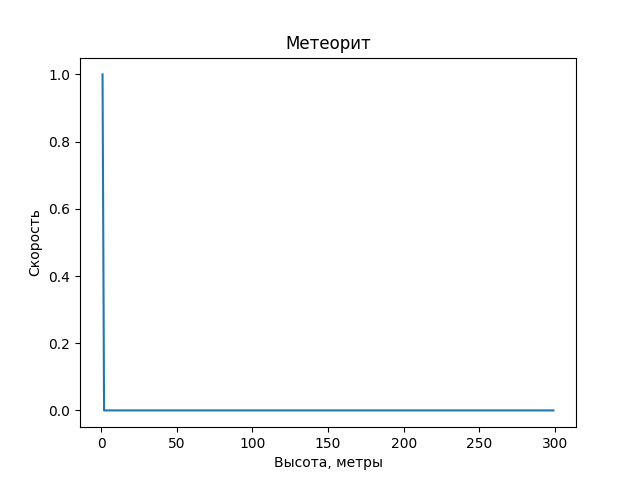
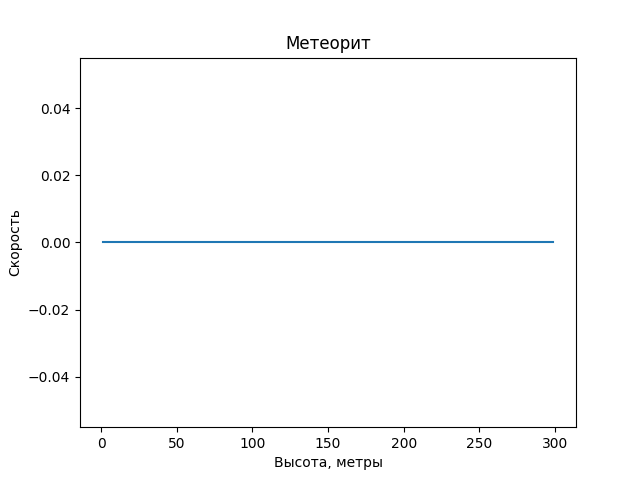
05

diff --git a/9 лекция/d_1.py b/9 лекция/d_1.py
@@ -8,7 +8,7 @@ def function(v, h):
     dvdh =  (2 * y * R * v * (1 - R/h))*(1/2)
     return dvdh
 
-v_0 = 1
+v_0 = 0
 R = 6377
 y = 9.80665
 
